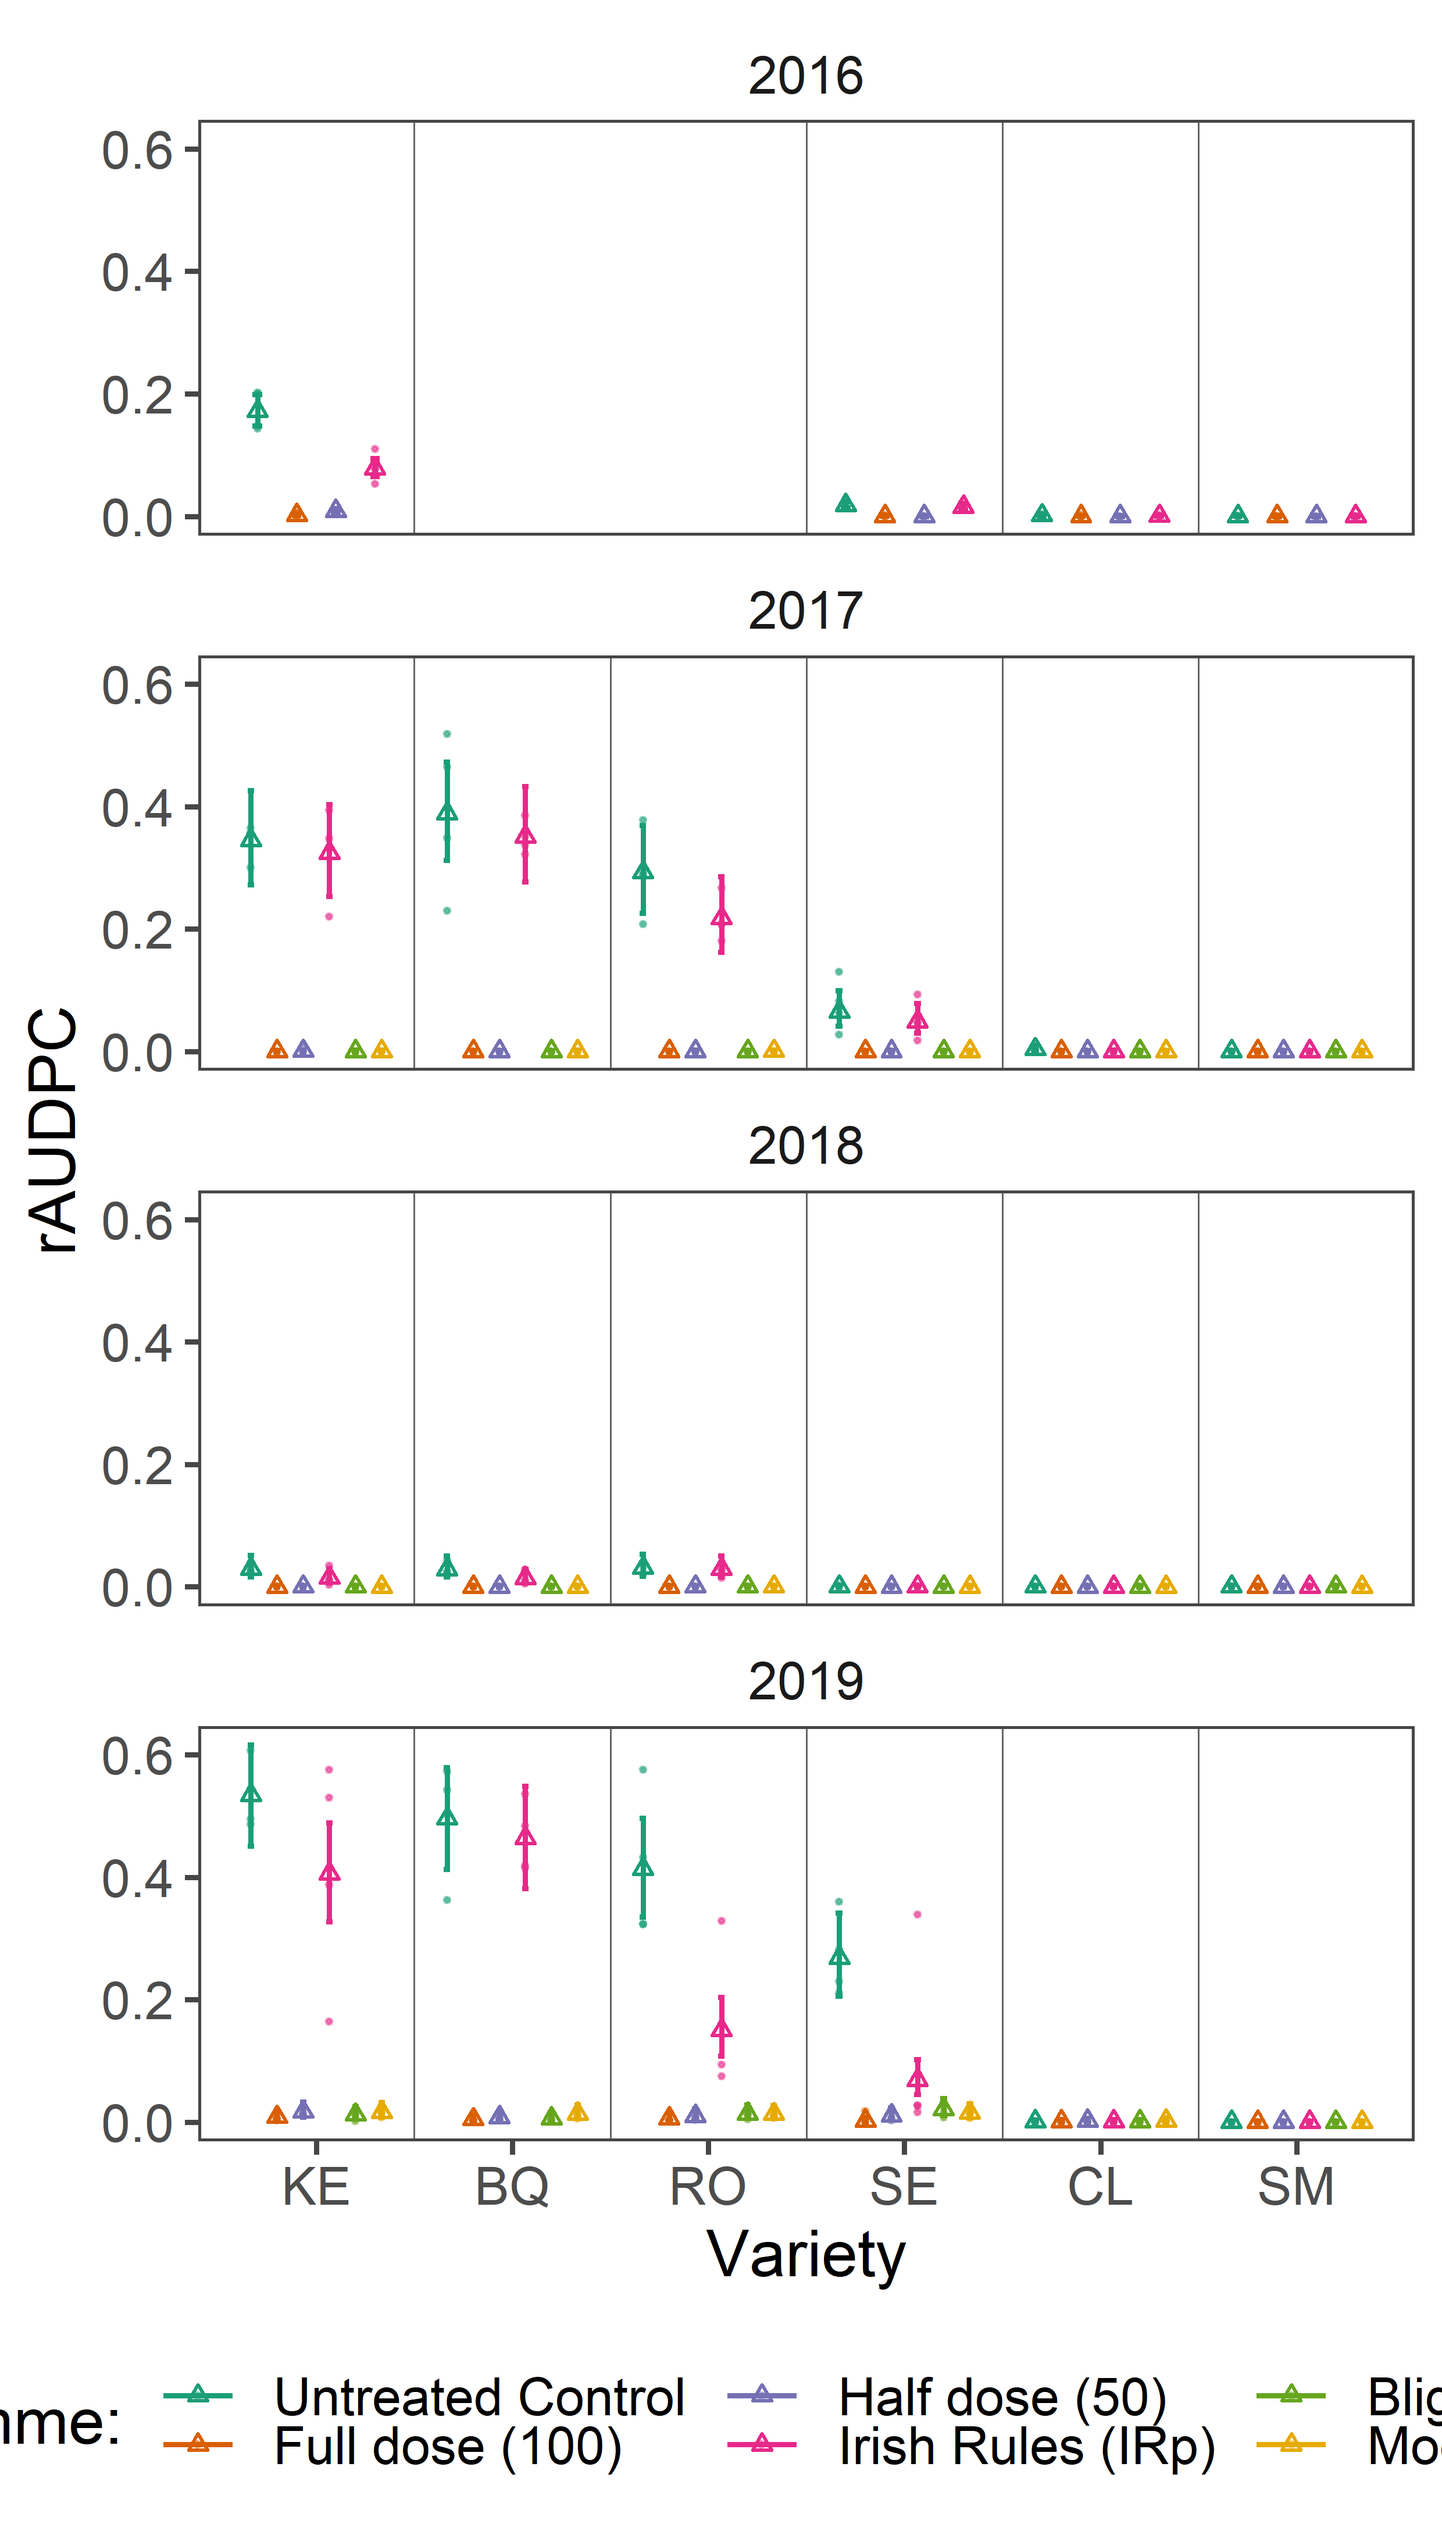
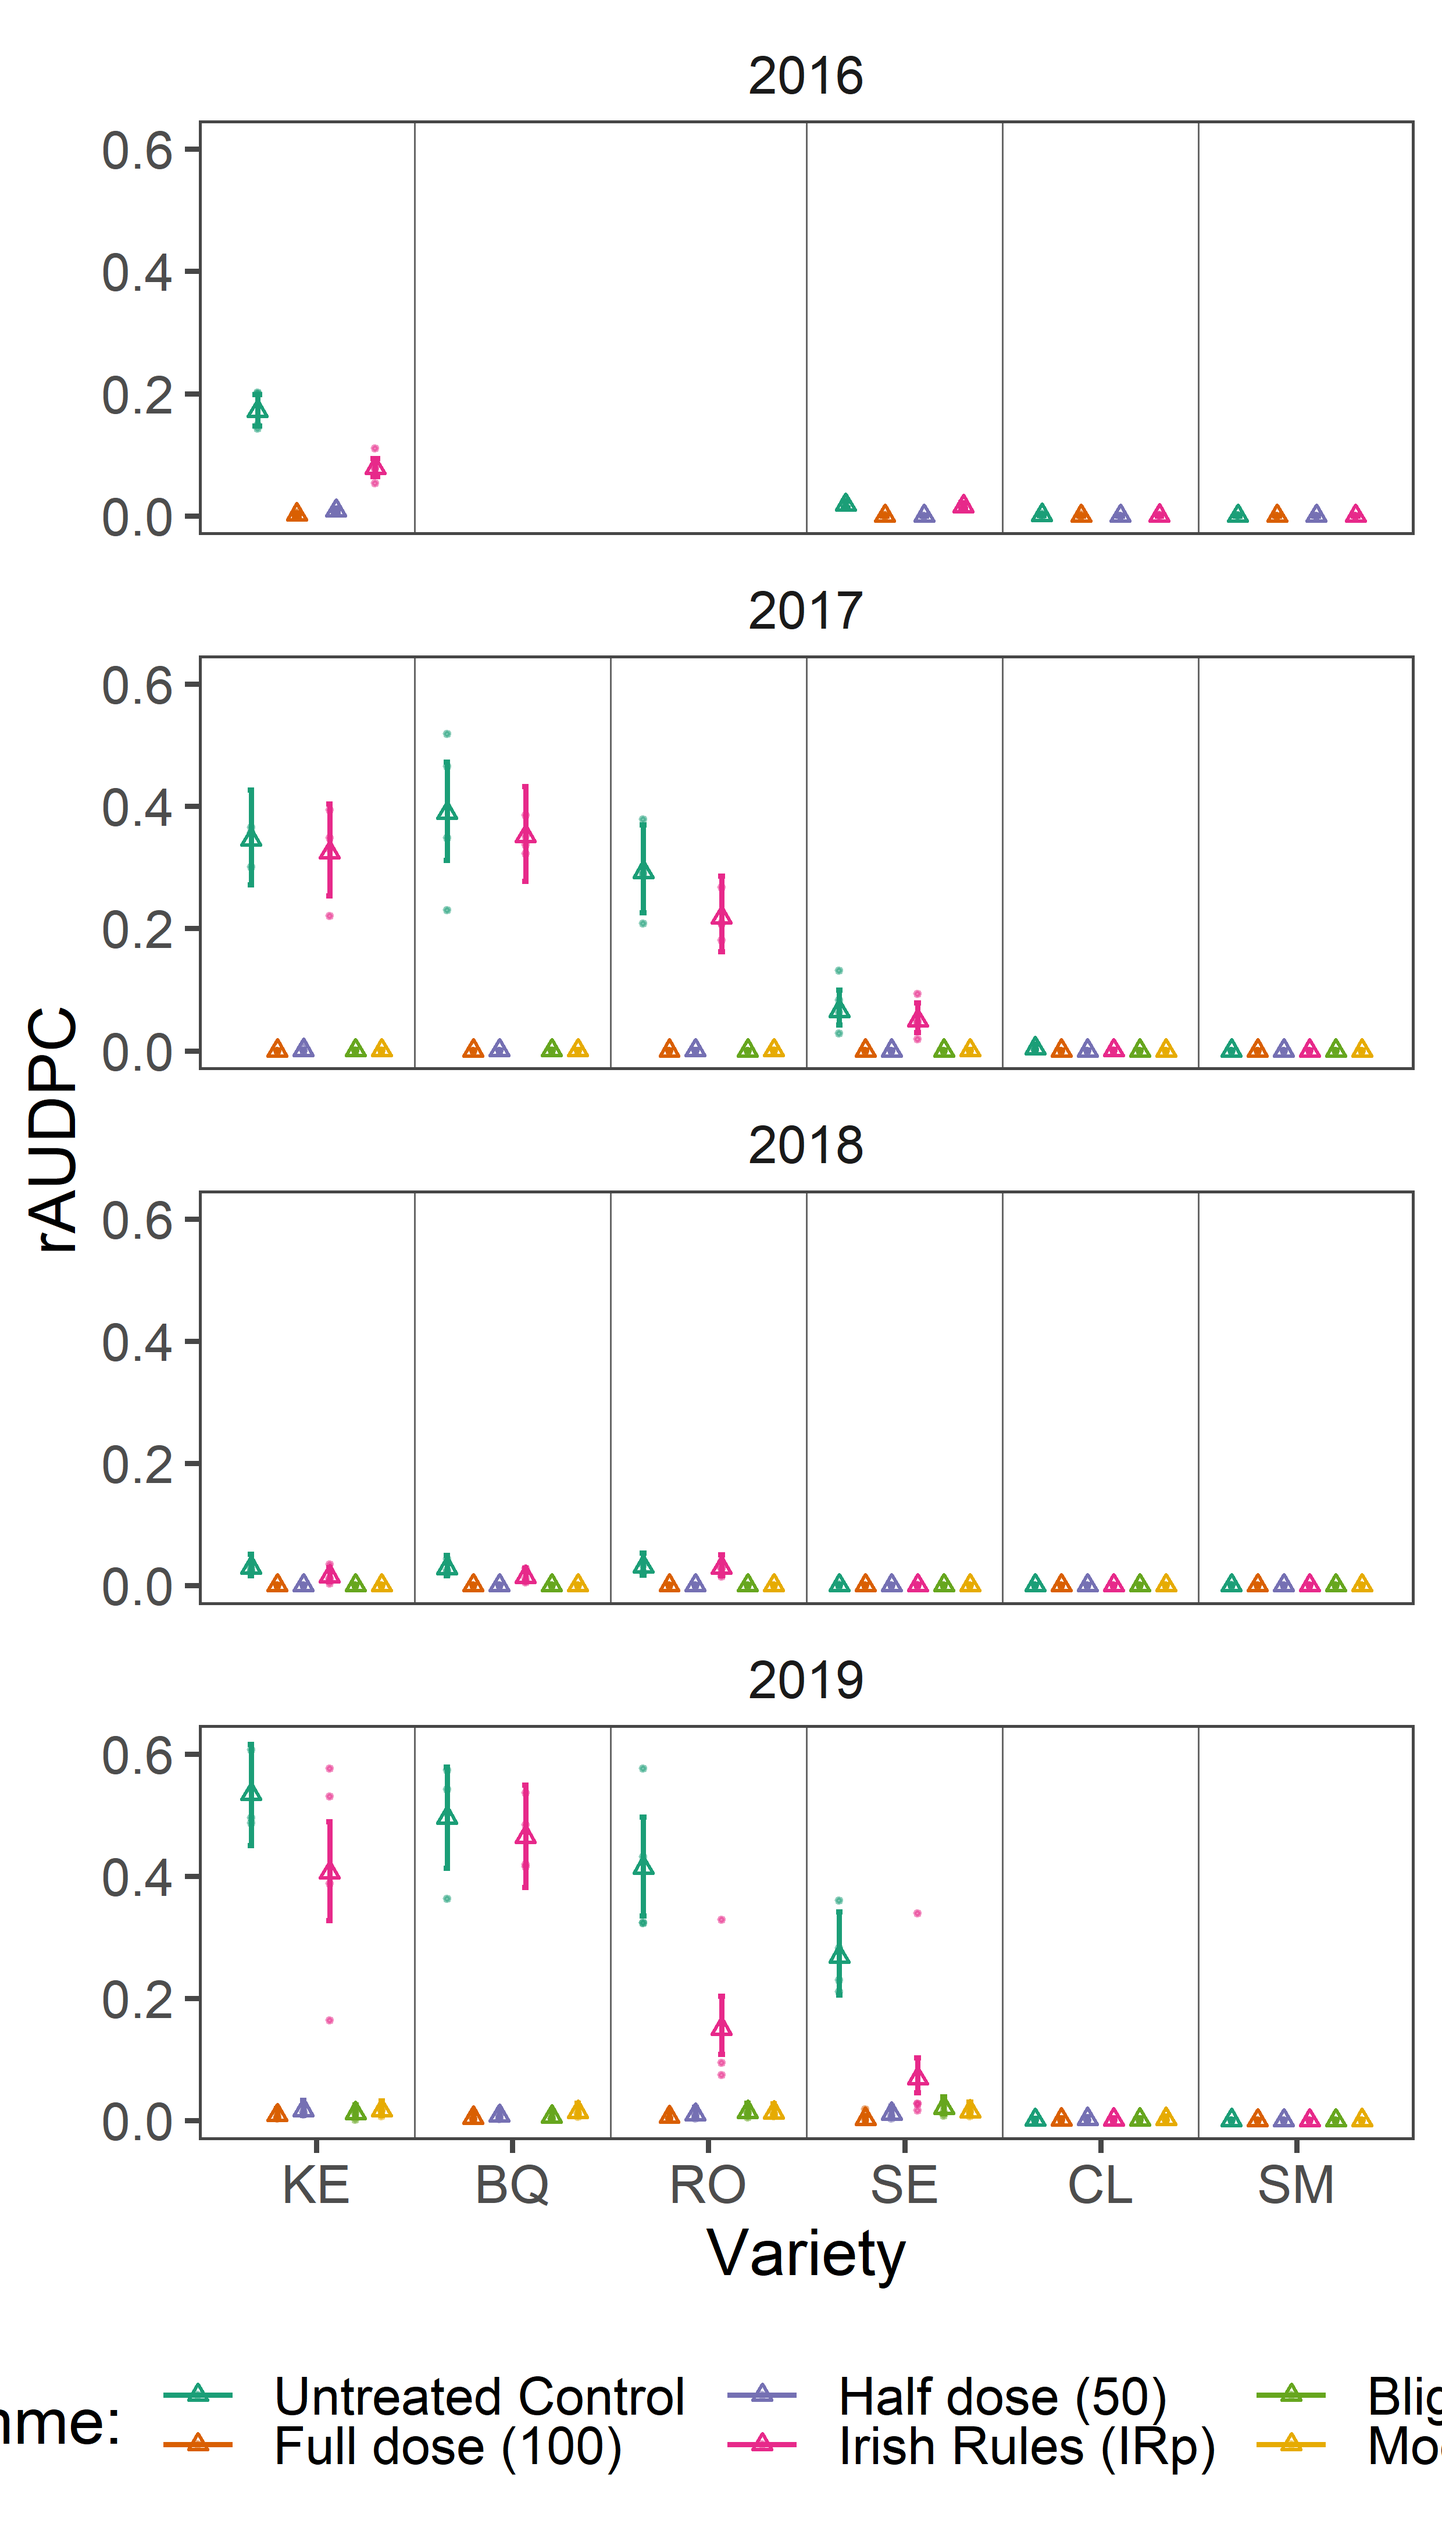
pub fig update

diff --git a/docs/pub_plots.html b/docs/pub_plots.html
@@ -28,6 +28,7 @@
 <script src="site_libs/highlightjs-9.12.0/highlight.js"></script>
 <link href="site_libs/pagedtable-1.1/css/pagedtable.css" rel="stylesheet" />
 <script src="site_libs/pagedtable-1.1/js/pagedtable.js"></script>
+<script src="site_libs/kePrint-0.0.1/kePrint.js"></script>
 <link href="site_libs/font-awesome-5.1.0/css/all.css" rel="stylesheet" />
 <link href="site_libs/font-awesome-5.1.0/css/v4-shims.css" rel="stylesheet" />
 
@@ -405,7 +406,7 @@ div.tocify {
   <a href="pub_plots.html">
     <span class="fa fa fa fa-code"></span>
      
-    Pub Figures
+    Pub Fig
   </a>
 </li>
       </ul>
@@ -414,7 +415,7 @@ div.tocify {
   <a href="https://github.com/mladencucak/PLBFieldTrial">
     <span class="fa fa-github-square"></span>
      
-    source
+    code
   </a>
 </li>
       </ul>
@@ -438,12 +439,19 @@ Here we present the process used to put them together. ## Treatments analysis Nu
 <pre class="r"><code>list.of.packages &lt;-
   c(
     &quot;tidyverse&quot;,
+    &quot;readxl&quot;,
     &quot;devtools&quot;,
+    &quot;ggpubr&quot;,
+    &quot;zoo&quot;,
+    &quot;kableExtra&quot;,
+    &quot;conflicted&quot;,
     &quot;here&quot;,
+    &quot;lubridate&quot;,
     &quot;magick&quot;,
     &quot;egg&quot;,
     &quot;conflicted&quot;,
-    &quot;poppr&quot;
+    &quot;poppr&quot;,
+    &quot;magick&quot;
   )
 
 new.packages &lt;-
@@ -465,12 +473,172 @@ if (any(as.numeric(packages_load) == 0)) {
 <pre><code>## [1] &quot;All packages were successfully loaded.&quot;</code></pre>
 <pre class="r"><code>rm(list.of.packages, new.packages, packages_load)
 
+conflict_prefer(&quot;filter&quot;, &quot;dplyr&quot;)
+
 #if instal is not working try 
 #install.packages(&quot;ROCR&quot;, repos = c(CRAN=&quot;https://cran.r-project.org/&quot;))</code></pre>
 </div>
+<div id="weather" class="section level2">
+<h2>Weather</h2>
+<pre class="r"><code>df &lt;- 
+read_csv(
+  here::here(&quot;data&quot;, &quot;weather&quot; , &quot;hly375.csv&quot;),
+  col_types = cols(
+    clamt = col_skip(),
+    clht = col_skip(),
+    vis = col_skip(),
+    w = col_skip(),
+    ww = col_skip()
+  ),
+  skip = 17
+)
+
+df$date &lt;-
+  lubridate::dmy_hm(df$date)
+df&lt;- add_column(df, short_date = as.Date(df$date), .after=1)
+df&lt;- add_column(df, year = year(df$date), .after=2)
+df&lt;- add_column(df, month = month(df$date), .after=3)
+df&lt;- add_column(df, day = day(df$date), .after=4)
+
+
+infil_gap &lt;- 8 #Maximum length of the infill gap
+df$temp &lt;-
+  round(na.spline(df$temp, na.rm = FALSE, maxgap = infil_gap), 1)
+df$rhum &lt;-
+  round(na.spline(df$rhum, na.rm = FALSE, maxgap = infil_gap), 0)
+df$rhum  &lt;- sapply(df$rhum, function(x)
+  ifelse(x &gt; 100, x &lt;- 100, x))
+
+df &lt;- 
+df %&gt;% 
+  filter(year %in% 2016:2019)%&gt;%
+  filter(month %in% c(4:9)) 
+
+#Check if the imputation worked
+df %&gt;%
+  summarize(
+    NA_rain = sum(is.na(rain)),
+    NA_temp = sum(is.na(temp)),
+    NA_rhum = sum(is.na(rhum))
+  )%&gt;% 
+  kable(format = &quot;html&quot;) %&gt;% 
+  kableExtra::kable_styling(latex_options = &quot;striped&quot;,full_width = FALSE)</code></pre>
+<table class="table" style="width: auto !important; margin-left: auto; margin-right: auto;">
+<thead>
+<tr>
+<th style="text-align:right;">
+NA_rain
+</th>
+<th style="text-align:right;">
+NA_temp
+</th>
+<th style="text-align:right;">
+NA_rhum
+</th>
+</tr>
+</thead>
+<tbody>
+<tr>
+<td style="text-align:right;">
+2
+</td>
+<td style="text-align:right;">
+0
+</td>
+<td style="text-align:right;">
+0
+</td>
+</tr>
+</tbody>
+</table>
+<pre class="r"><code>#Only two missing values for rain should not be a problem, so we will just do a linear interpolation
+df$rain &lt;- 
+  round(na.approx(df$rain, na.rm = FALSE, maxgap = infil_gap), 1)
+
+
+df %&gt;%
+  group_by(year, month, short_date) %&gt;% 
+  summarize(temp = round(mean(temp),1),
+            rain = sum(rain),
+            rhum = round(mean(rhum),1)
+            
+  ) %&gt;%
+  mutate(rain = ifelse(rain == 0, NA, rain)) %&gt;% 
+  rename(date = short_date) %&gt;% 
+  ggplot() +
+  # geom_hline(aes())
+  geom_line(
+    aes(
+      x = date,
+      y = rhum,
+      color = &quot;Average relative humidity (%)&quot;,
+      fill = &quot;Average relative humidity (%)&quot;
+    ),
+    size = 0.25
+  ) +
+  geom_line(aes(
+    x = date,
+    y = temp,
+    colour = &quot;Average temperature (˚C)&quot;,
+    fill = &quot;Average temperature (˚C)&quot;,
+  ),
+  size = 0.25) +
+  geom_col(
+    aes(date,
+        rain,
+        colour = &quot;Total precipitation (mm/day)&quot;,
+        fill = &quot;Total precipitation (mm/day)&quot;),
+    size = .8 ,
+    inherit.aes = TRUE,
+    width = 0.03
+  ) +
+  scale_colour_manual(
+    &quot;Daily weather:&quot;,
+    values = c(
+      &quot;Average relative humidity (%)&quot; = &quot;#0EBFE9&quot;,
+      &quot;Average temperature (˚C)&quot; = &quot;#ED2939&quot;,
+      &quot;Total precipitation (mm/day)&quot; = &quot;blue&quot;
+    )
+  ) +
+  scale_fill_manual(
+    &quot;Daily weather:&quot;,
+    values = c(
+      &quot;Average relative humidity (%)&quot; =  &quot;#0EBFE9&quot;,
+      &quot;Average temperature (˚C)&quot; = &quot;#ED2939&quot;,
+      &quot;Total precipitation (mm/day)&quot; = &quot;blue&quot;
+    )
+  ) +
+  scale_linetype_manual(name = &quot;Risk Limits&quot;,
+                        values = c(1, 2, 3)) +
+  scale_y_continuous( breaks = seq(0,100,20))+
+  # theme_article() +
+  scale_x_date(date_labels = &quot;%b&quot;, date_breaks = &quot;1 month&quot;)+
+  facet_wrap( ~ year, scales = &quot;free&quot;, ncol = 1,strip.position=&quot;right&quot;) +
+  guides(fill=guide_legend(nrow=1,byrow=TRUE,title.position = &quot;top&quot;),
+         color=guide_legend(nrow=1,byrow=TRUE,title.position = &quot;top&quot;))+
+    theme_bw()+
+  theme(
+    text = element_text(size=13),
+    # axis.text.x = element_blank(),
+    # axis.ticks.x = element_blank(),
+     axis.title.y = element_blank(),
+     axis.title.x = element_blank(),
+    # axis.text.y = element_blank(),
+    # axis.ticks.y = element_blank(),
+    legend.position = &quot;top&quot;,
+    strip.background = element_blank(), 
+    strip.placement = &quot;outside&quot;
+    # panel.grid.minor =   element_blank(),
+        # panel.grid.major =   element_line(colour = &quot;white&quot;,size=0.75)
+  ) +
+
+ggsave(filename= here::here(&quot;results&quot;, &quot;wth&quot;, &quot;all_wth.png&quot;), 
+       width = 7, height =6.5, dpi = 620)</code></pre>
+<p><img src="pub_plots_files/figure-html/wth_charts-1.png" width="672" /></p>
+</div>
 <div id="population-frequencies-and-dapc-analysis" class="section level2">
 <h2>Population frequencies and DAPC analysis</h2>
-<p>GGplots from the frequency analysis wee colated using ‘gpubr’ and DAPC plots using ‘magick’.</p>
+<p>GGplots from the frequency analysis wee colated using ‘ggpubr’ and DAPC plots using ‘magick’.</p>
 <pre class="r"><code>plotls &lt;- readRDS(file = here::here(&quot;results&quot;, &quot;gen&quot;, &quot;freq&quot;,&quot;freq_plots.RDS&quot;))
 
 plotls &lt;- 
@@ -497,7 +665,7 @@ ggsave(
 # Read external images
 #shell.exec(here::here(&quot;results&quot;, &quot;gen&quot;,&quot;dapc&quot;, &quot;treatment.png&quot;))
 t = image_read(here::here(&quot;results&quot;, &quot;gen&quot;,&quot;dapc&quot;, &quot;treatment.png&quot;))
-v = image_read(here::here(&quot;results&quot;, &quot;gen&quot;,&quot;dapc&quot;, &quot;var.png&quot;))
+v = image_read(here::here(&quot;results&quot;, &quot;gen&quot;,&quot;dapc&quot;, &quot;variety.png&quot;))
 y = image_read(here::here(&quot;results&quot;, &quot;gen&quot;,&quot;dapc&quot;, &quot;year.png&quot;))
 imgs = c(v,t,y)
 
@@ -602,15 +770,16 @@ dd %&gt;%
        x = &quot;Variety&quot;,
        y = &quot;rAUDPC&quot;) 
 
-pdfin+
-  ggsave(
+
+  ggsave(plot = pdfin,
     filename = here::here(&quot;results&quot;, &quot;dis&quot;, &quot;Effects final ver.png&quot;),
     width = 4,
     height = 7,
-    dpi = 820
-  )</code></pre>
-<p><img src="pub_plots_files/figure-html/unnamed-chunk-2-1.png" width="672" /></p>
-<pre class="r"><code> py_fin &lt;- 
+    dpi = 620
+  )
+
+
+ py_fin &lt;- 
   yd %&gt;%
   mutate(
     line_positions = as.numeric(factor(variety, levels = unique(variety))),
@@ -667,7 +836,7 @@ ggsave(
   filename = here::here(&quot;results&quot;, &quot;yield&quot;, &quot;Effects final ver.png&quot;),
   width = 3.5,
   height = 7,
-  dpi = 820
+  dpi = 620
 )
 
 
@@ -690,7 +859,7 @@ ggpubr::ggarrange(plotlist = plotls,
                   legend = &quot;bottom&quot;)+
   ggsave(filename= here::here(&quot;results&quot;, &quot;dis&quot;, &quot;dis_yld.png&quot;),
          width = 7.5, height =10, dpi = 620)</code></pre>
-<p><img src="pub_plots_files/figure-html/unnamed-chunk-2-2.png" width="672" /></p>
+<p><img src="pub_plots_files/figure-html/unnamed-chunk-1-1.png" width="672" /></p>
 </div>
 
 

diff --git a/docs/wth.html b/docs/wth.html
@@ -556,6 +556,7 @@ df %&gt;%
   mutate(rain = ifelse(rain == 0, NA, rain)) %&gt;% 
   rename(date = short_date) %&gt;% 
   ggplot() +
+  # geom_hline(aes())
   geom_line(
     aes(
       x = date,
@@ -599,7 +600,13 @@ df %&gt;%
   ) +
   scale_linetype_manual(name = &quot;Risk Limits&quot;,
                         values = c(1, 2, 3)) +
-  theme_article() +
+  scale_y_continuous( breaks = seq(0,100,20))+
+  # theme_article() +
+  scale_x_date(date_labels = &quot;%b&quot;, date_breaks = &quot;1 month&quot;)+
+  facet_wrap( ~ year, scales = &quot;free&quot;, ncol = 1,strip.position=&quot;right&quot;) +
+  guides(fill=guide_legend(nrow=1,byrow=TRUE,title.position = &quot;top&quot;),
+         color=guide_legend(nrow=1,byrow=TRUE,title.position = &quot;top&quot;))+
+    theme_bw()+
   theme(
     text = element_text(size=13),
     # axis.text.x = element_blank(),
@@ -608,12 +615,13 @@ df %&gt;%
      axis.title.x = element_blank(),
     # axis.text.y = element_blank(),
     # axis.ticks.y = element_blank(),
-    legend.position = &quot;top&quot;
+    legend.position = &quot;top&quot;,
+    strip.background = element_blank(), 
+    strip.placement = &quot;outside&quot;
+    # panel.grid.minor =   element_blank(),
+        # panel.grid.major =   element_line(colour = &quot;white&quot;,size=0.75)
   ) +
-  scale_x_date(date_labels = &quot;%b&quot;, date_breaks = &quot;1 month&quot;)+
-  facet_wrap( ~ year, scales = &quot;free_x&quot;, ncol = 1,strip.position=&quot;right&quot;) +
-  guides(fill=guide_legend(nrow=1,byrow=TRUE,title.position = &quot;top&quot;),
-         color=guide_legend(nrow=1,byrow=TRUE,title.position = &quot;top&quot;))+
+
 ggsave(filename= here::here(&quot;results&quot;, &quot;wth&quot;, &quot;all_wth.png&quot;), 
        width = 7, height =6.5, dpi = 620)</code></pre>
 <p><img src="wth_files/figure-html/cars-1.png" width="672" /></p>
